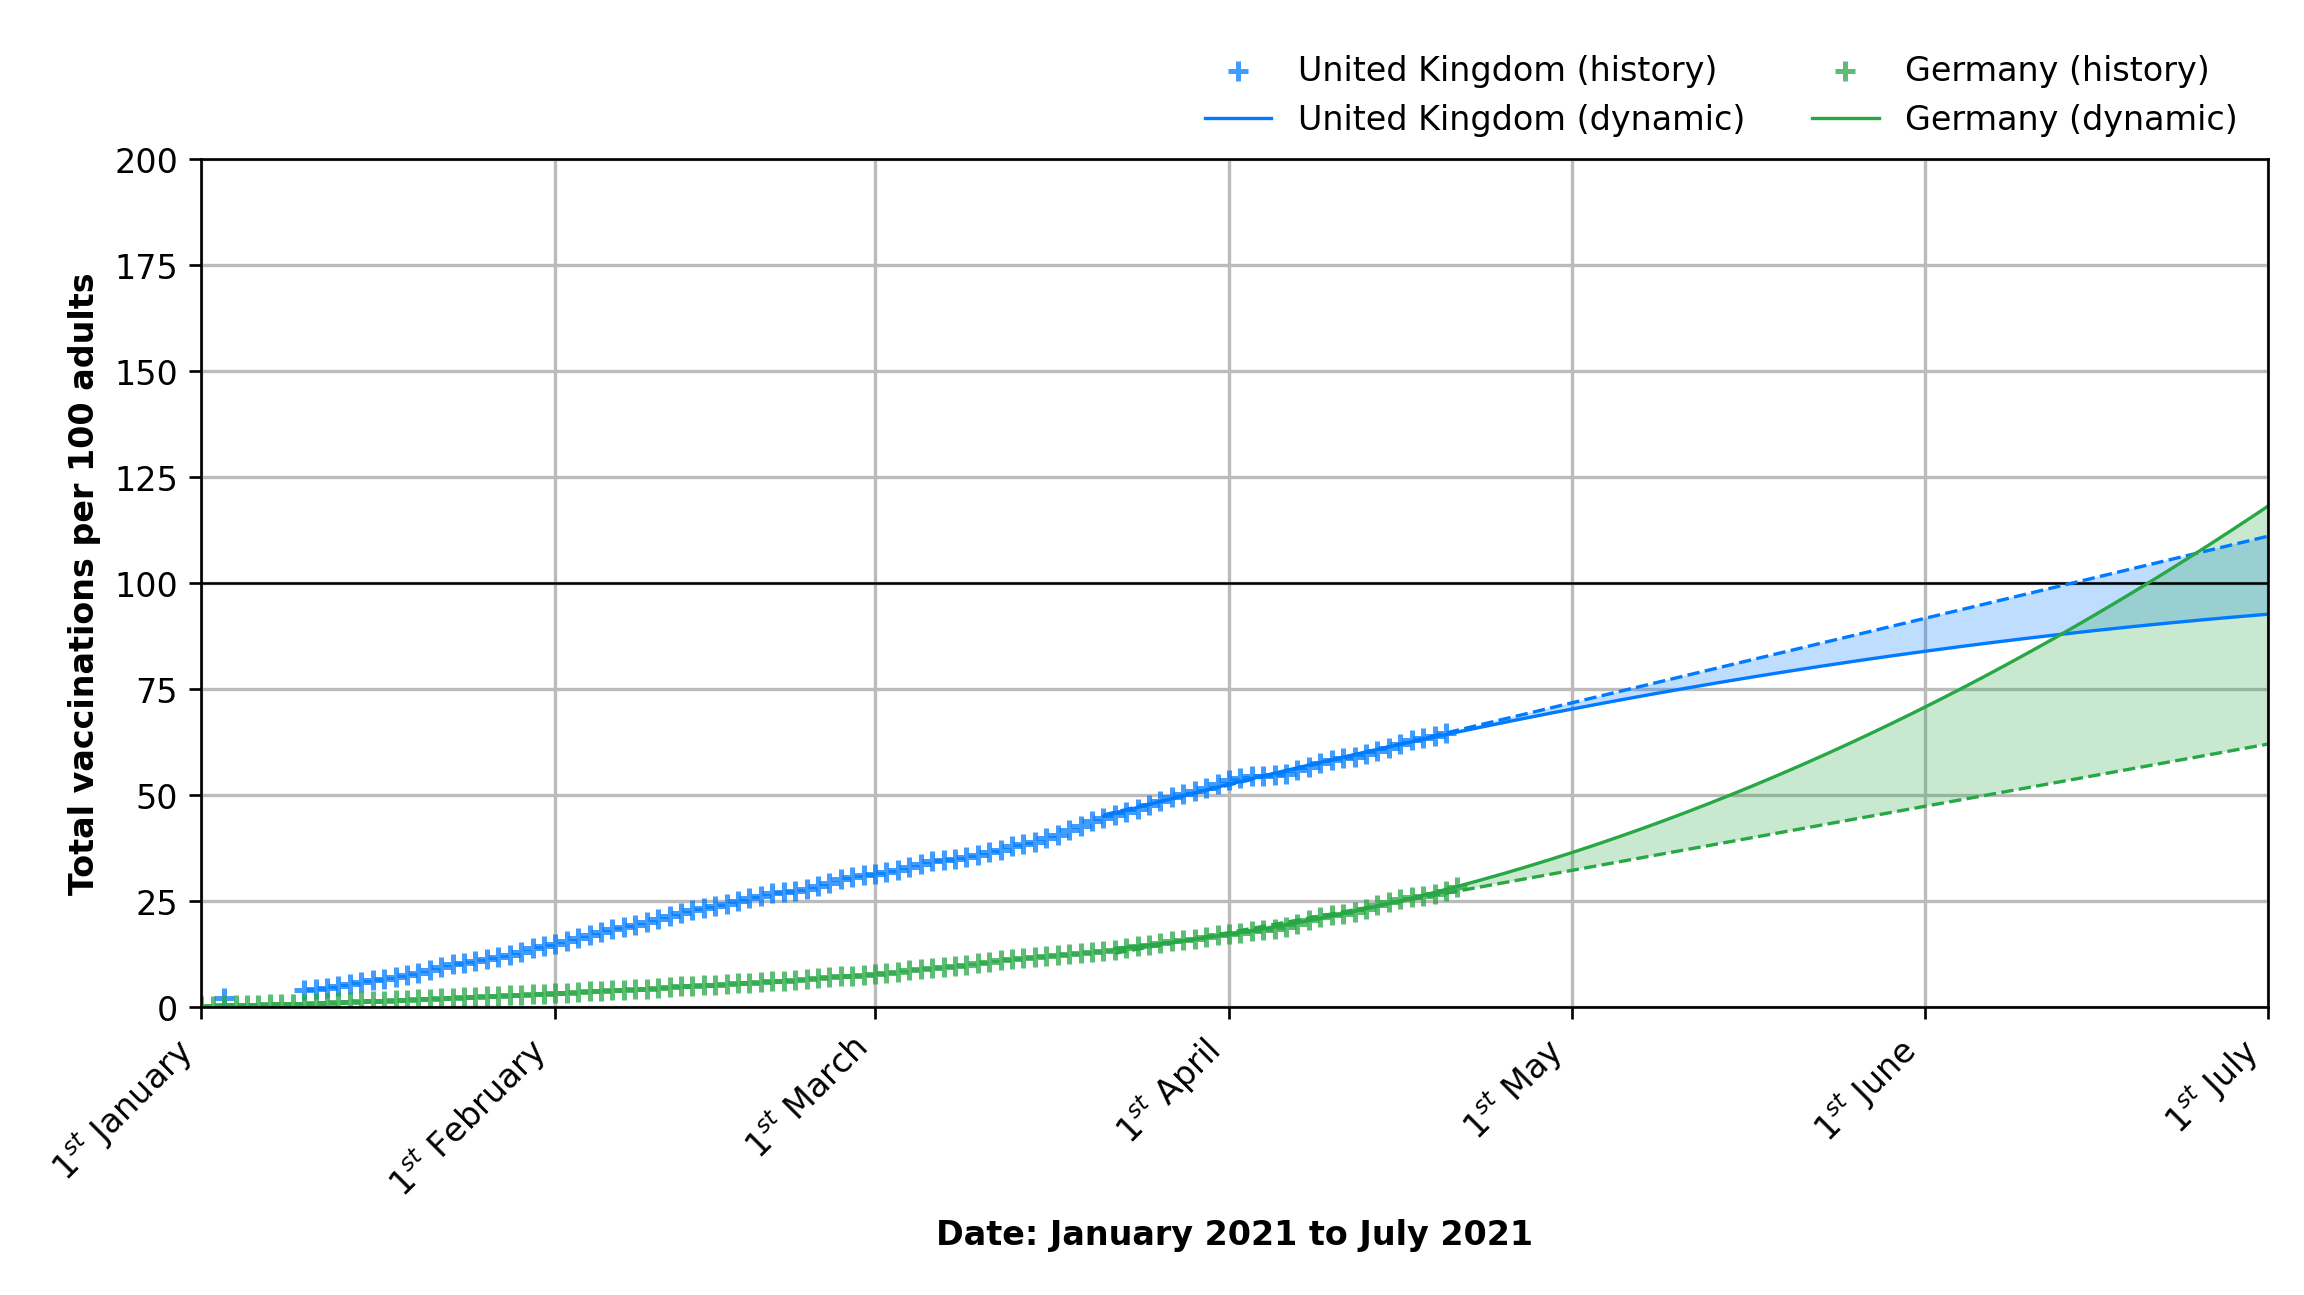
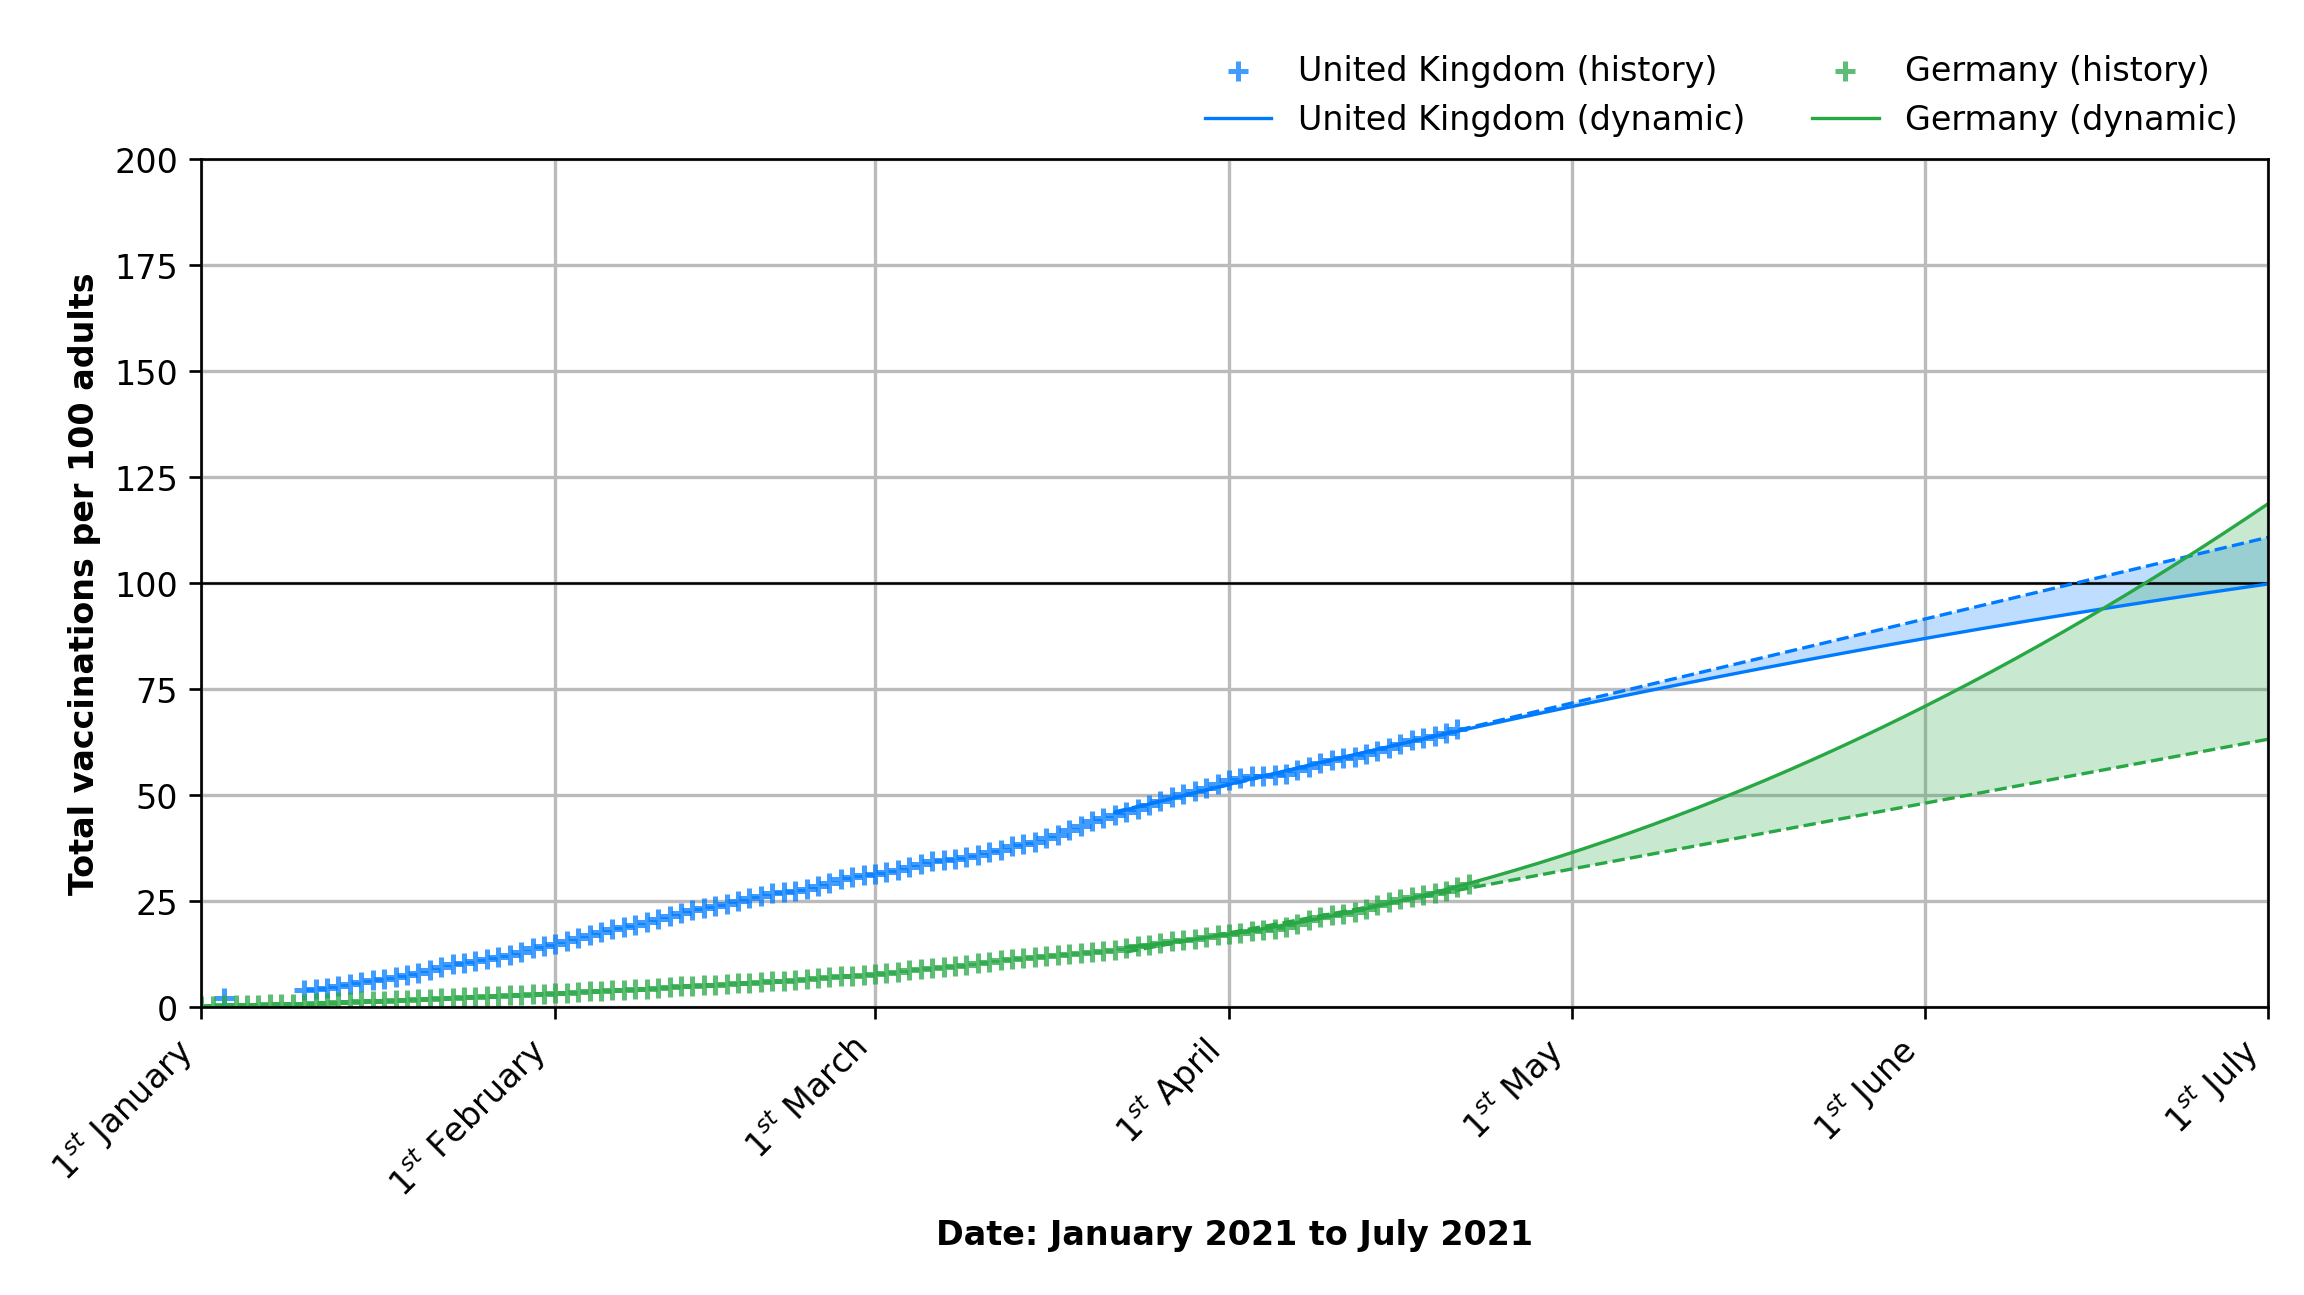
Deploying to gh-pages from @ lambdapioneer/vactrend@0b151e50bae144ff27c39ffb07cd62d871ed93a9 🚀

diff --git a/index.html b/index.html
@@ -37,13 +37,13 @@
                 <div class="card">
                     <div class="card-header">🇬🇧 United Kingdom</div>
                     <div class="card-body">
-                        <h3 class="font-weight-bold" style="color: #007bff">64.69 <small>(+0.67/d)</small></h3>
+                        <h3 class="font-weight-bold" style="color: #007bff">65.48 <small>(+0.79/d)</small></h3>
                         <p class="mt-n2">Vaccinations per 100 adults</p>
-                        <h3 class=" font-weight-bold">14 June 2021</h3>
+                        <h3 class=" font-weight-bold">15 June 2021</h3>
                         <p class="mt-n2">Earliest day: 100 vacc. per 100 adults</p>
-                        <h3 class=" font-weight-bold">16 November 2021</h3>
+                        <h3 class=" font-weight-bold">18 November 2021</h3>
                         <p class="mt-n2">Earliest day: 200 vacc. per 100 adults</p>
-                        <p class="card-text"><small class="text-muted">Last data from 20 April 2021.</small></p>
+                        <p class="card-text"><small class="text-muted">Last data from 21 April 2021.</small></p>
                     </div>
                 </div>
             </div>
@@ -52,13 +52,13 @@
                 <div class="card">
                     <div class="card-header">🇩🇪 Germany</div>
                     <div class="card-body">
-                        <h3 class="font-weight-bold" style="color: #28a745">28.24 <small>(+0.83/d)</small></h3>
+                        <h3 class="font-weight-bold" style="color: #28a745">28.99 <small>(+0.73/d)</small></h3>
                         <p class="mt-n2">Vaccinations per 100 adults</p>
                         <h3 class=" font-weight-bold">21 June 2021</h3>
                         <p class="mt-n2">Earliest day: 100 vacc. per 100 adults</p>
                         <h3 class=" font-weight-bold">09 August 2021</h3>
                         <p class="mt-n2">Earliest day: 200 vacc. per 100 adults</p>
-                        <p class="card-text"><small class="text-muted">Last data from 21 April 2021.</small></p>
+                        <p class="card-text"><small class="text-muted">Last data from 22 April 2021.</small></p>
                     </div>
                 </div>
             </div>
